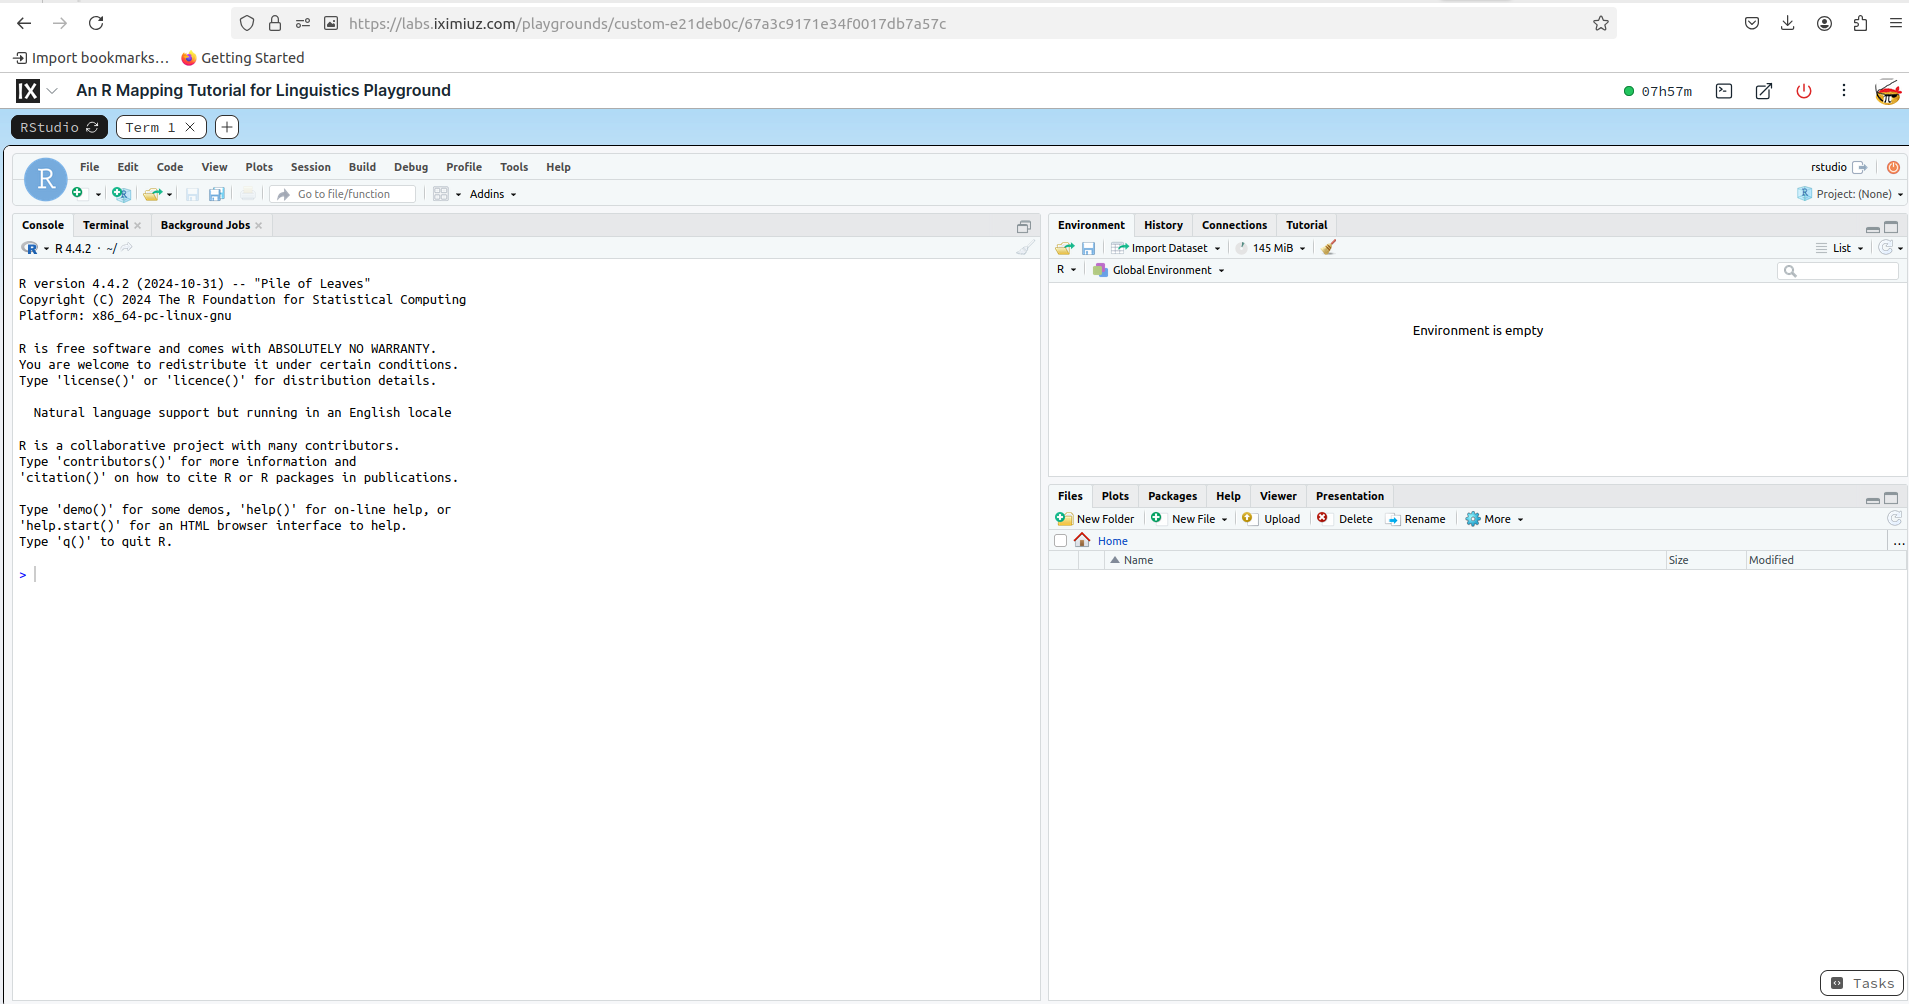
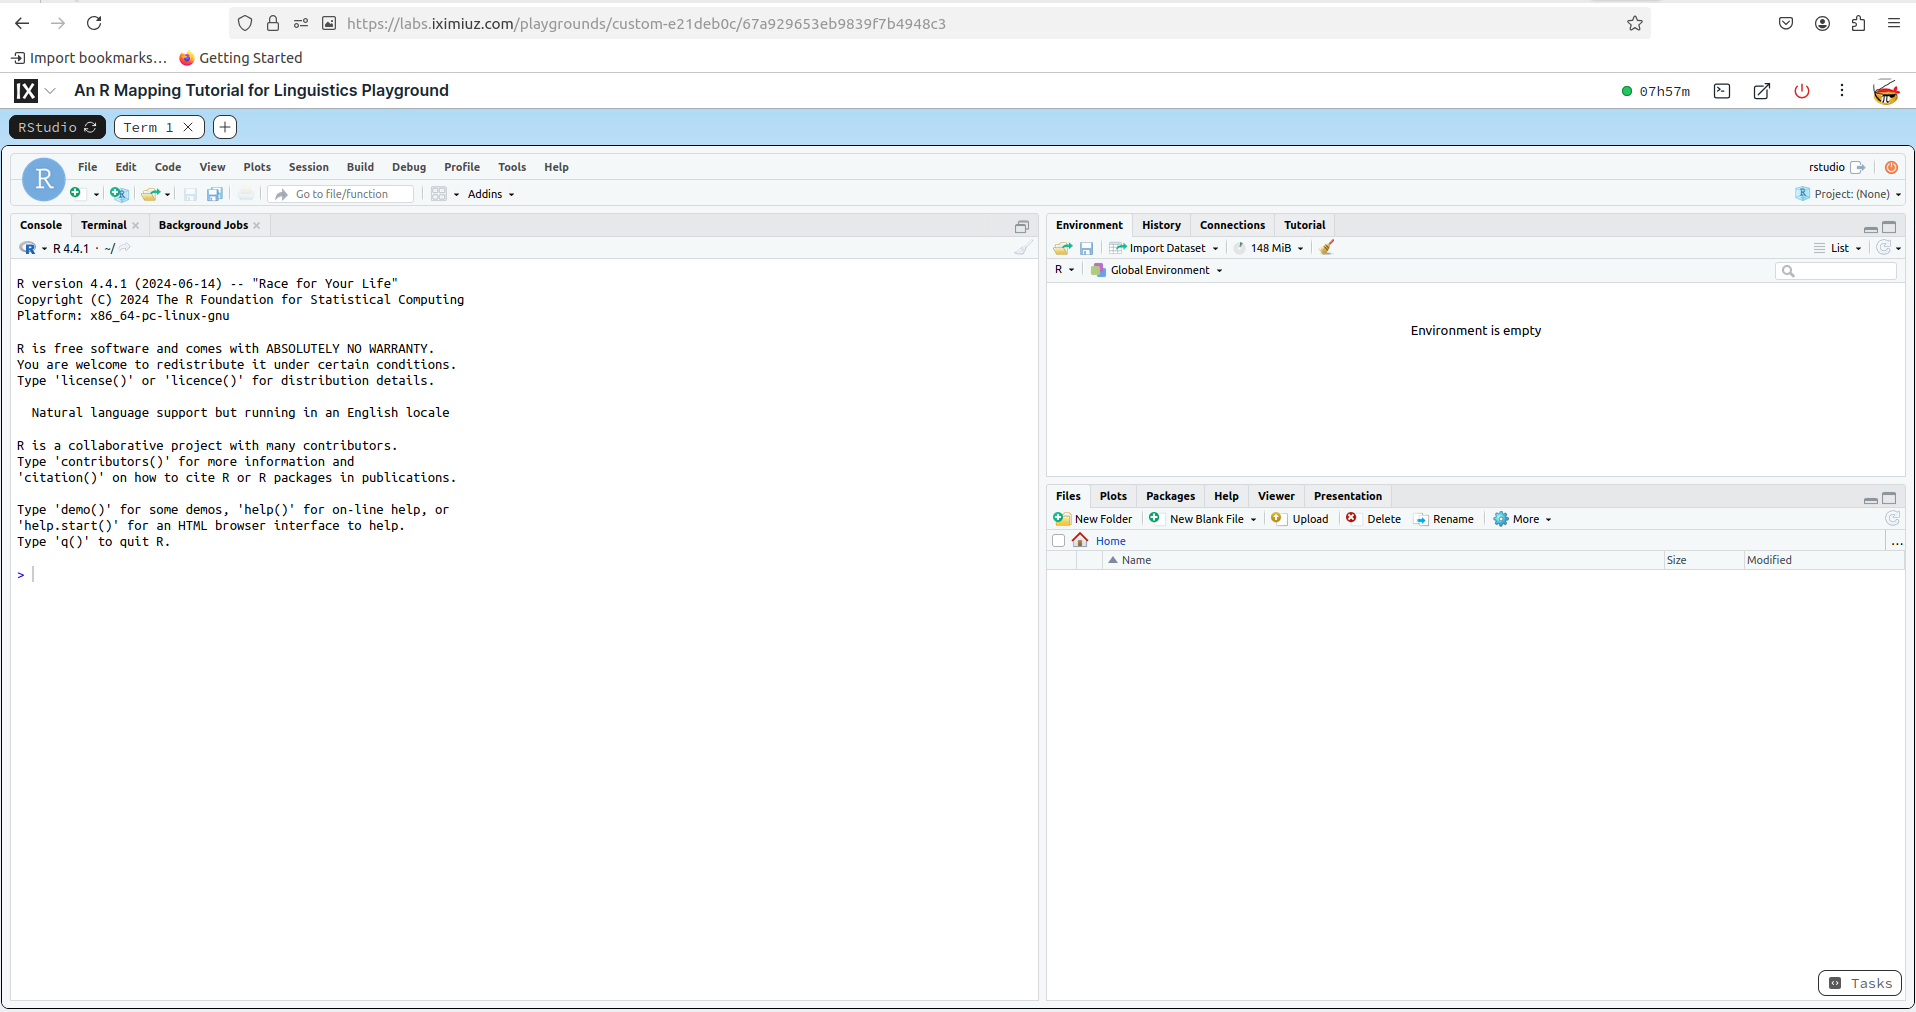
update screenshots and fix iximiuz labs steps

diff --git a/README.md b/README.md
@@ -33,7 +33,7 @@ docker run -it --rm -p 127.0.0.1:8787:8787 -e PASSWORD=rstudio tutorial
 
 After that's running, you should be able to open http://localhost:8787 in your browser and see the Rstudio login screen.
 
-![rstudio login screen](https://github.com/danaroemling/mapping-for-linguists/blob/main/rstudio_login_screen.png)
+![rstudio login screen](rstudio_login_screen.png)
 
 
 
@@ -51,9 +51,9 @@ If you don't feel like messing around with specific versions of R and dependenci
 
 3. Once the terminal prompt shows up, You can click on the "Rstudio" tab.
 
-![playgroun_ready](playground_ready.png)
+![playground ready](playground_ready.png)
 
-4. Click on the link and a new window will open up to log into Rstudio. The username is "rstudio" and the password is "mappingForLinguists" (case sensitive).
+4. You'll see the Rstudio login screen. The username is "rstudio" and the password is "mappingForLinguists" (case sensitive).
 
 ![rstudio login page](rstudio_login_screen.png)
 
